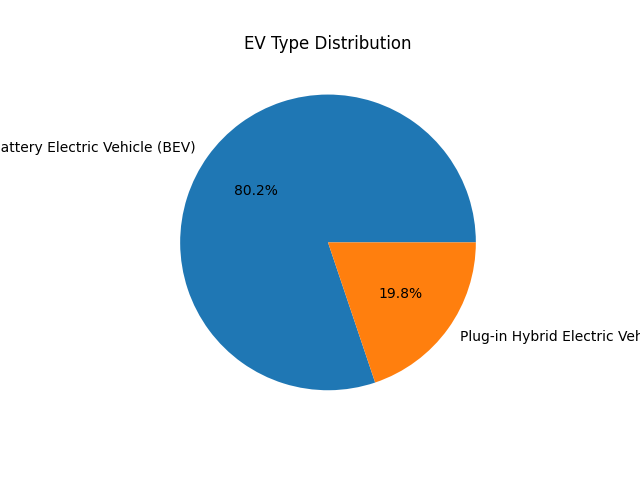
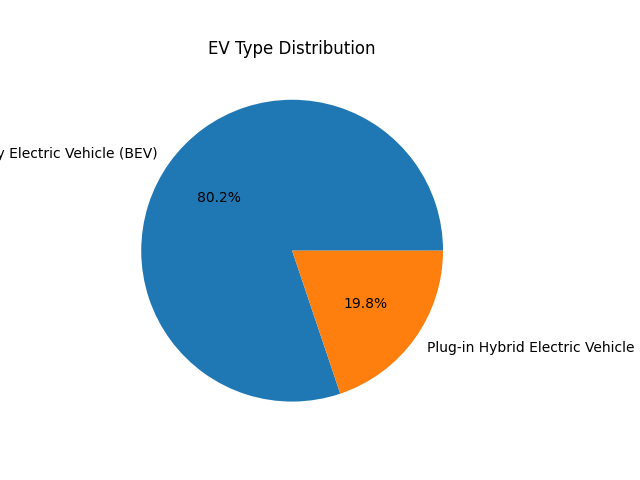
Add Python script for EV analysis

Changed region(s): [[0.0, 0.1875, 1.0, 0.8438], [0.3125, 0.0625, 0.6562, 0.125]]

diff --git a/src/ev_analysis.py b/src/ev_analysis.py
@@ -1,0 +1,92 @@
+from pathlib import Path
+import pandas as pd
+import matplotlib.pyplot as plt
+
+
+BASE_DIR = Path(__file__).resolve().parent.parent
+DATA_PATH = BASE_DIR / "data" / "Electric_Vehicle_Population_Data.csv"
+CHARTS_DIR = BASE_DIR / "visuals" / "charts"
+
+
+def main():
+    CHARTS_DIR.mkdir(parents=True, exist_ok=True)
+
+    df = pd.read_csv(DATA_PATH)
+
+    df.columns = df.columns.str.strip().str.lower()
+
+    print("Missing values:")
+    print(df.isnull().sum())
+
+    df = df.dropna(subset=["county", "city", "electric range"])
+
+    print("\nFirst 5 rows:")
+    print(df.head())
+
+    print("\nDataset shape:")
+    print(df.shape)
+
+    print("\nDataset info:")
+    print(df.info())
+
+    print("\nSummary statistics:")
+    print(df.describe())
+
+    top_makes = df["make"].value_counts().head(10)
+    print("\nTop EV manufacturers:")
+    print(top_makes)
+
+    plt.figure()
+    top_makes.plot(kind="bar")
+    plt.title("Top 10 EV Manufacturers")
+    plt.xlabel("Manufacturer")
+    plt.ylabel("Number of Vehicles")
+    plt.xticks(rotation=45)
+    plt.tight_layout()
+    plt.savefig(CHARTS_DIR / "top_manufacturers.png")
+    plt.show()
+
+    year_counts = df["model year"].value_counts().sort_index()
+    plt.figure()
+    year_counts.plot(kind="line")
+    plt.title("EV Adoption Growth Over Time")
+    plt.xlabel("Year")
+    plt.ylabel("Number of Vehicles")
+    plt.tight_layout()
+    plt.savefig(CHARTS_DIR / "ev_growth.png")
+    plt.show()
+
+    county_counts = df["county"].value_counts().head(10)
+    plt.figure()
+    county_counts.plot(kind="bar")
+    plt.title("Top 10 Counties by EV Adoption")
+    plt.xlabel("County")
+    plt.ylabel("Number of Vehicles")
+    plt.xticks(rotation=45)
+    plt.tight_layout()
+    plt.savefig(CHARTS_DIR / "top_counties.png")
+    plt.show()
+
+    city_counts = df["city"].value_counts().head(10)
+    plt.figure()
+    city_counts.plot(kind="bar")
+    plt.title("Top Cities for EV Adoption")
+    plt.xlabel("City")
+    plt.ylabel("Number of Vehicles")
+    plt.xticks(rotation=45)
+    plt.tight_layout()
+    plt.savefig(CHARTS_DIR / "top_cities.png")
+    plt.show()
+
+    type_counts = df["electric vehicle type"].value_counts()
+    plt.figure()
+    type_counts.plot(kind="pie", autopct="%1.1f%%")
+    plt.title("EV Type Distribution")
+    plt.ylabel("")
+    plt.tight_layout()
+    plt.savefig(CHARTS_DIR / "ev_type.png")
+    plt.show()
+
+
+if __name__ == "__main__":
+    main()
